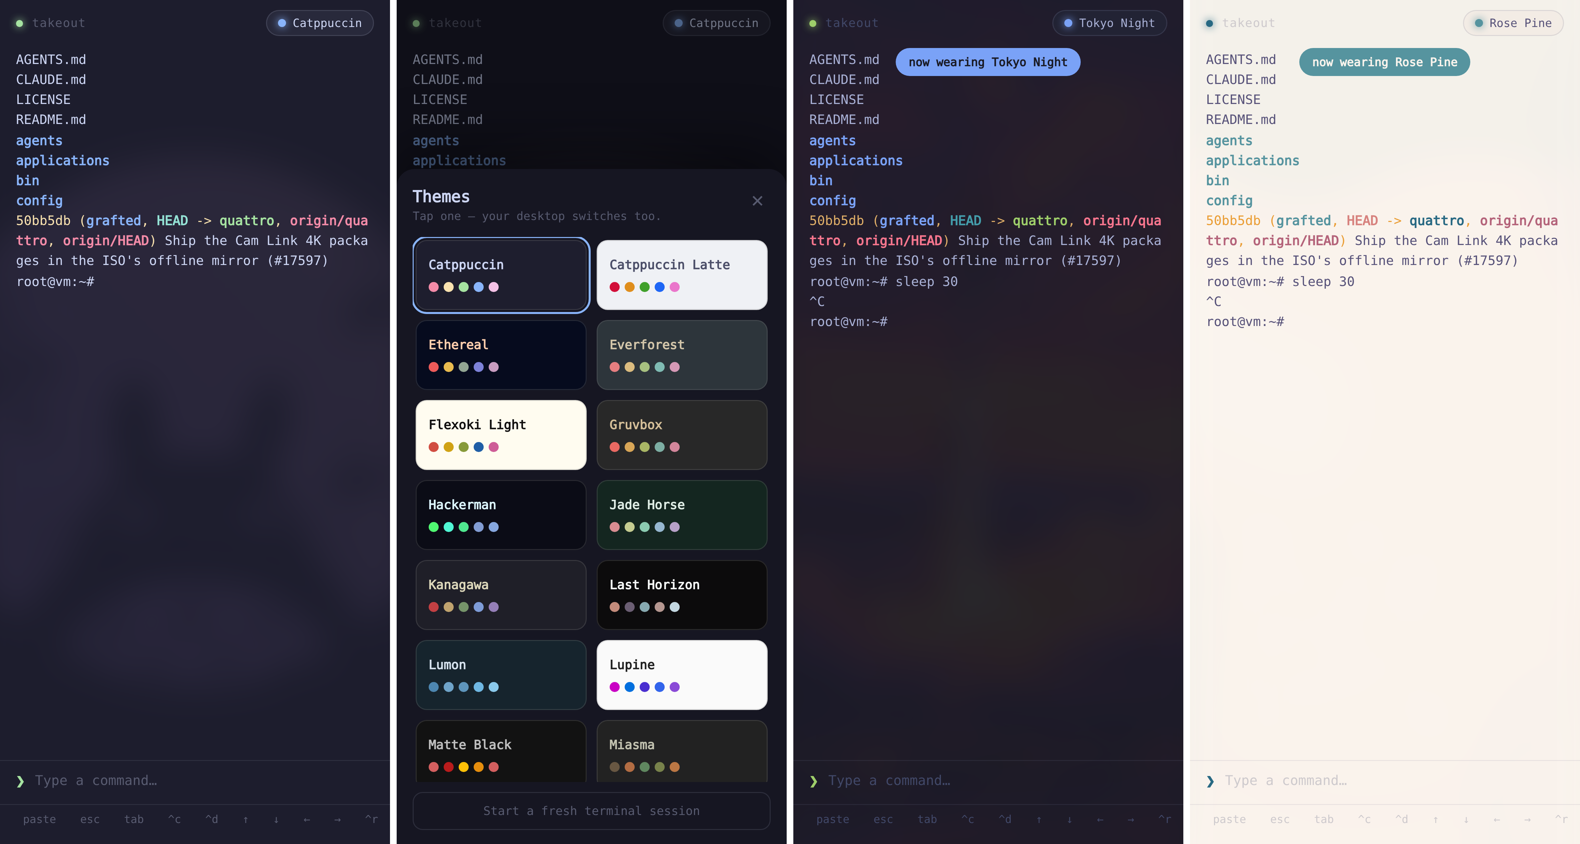
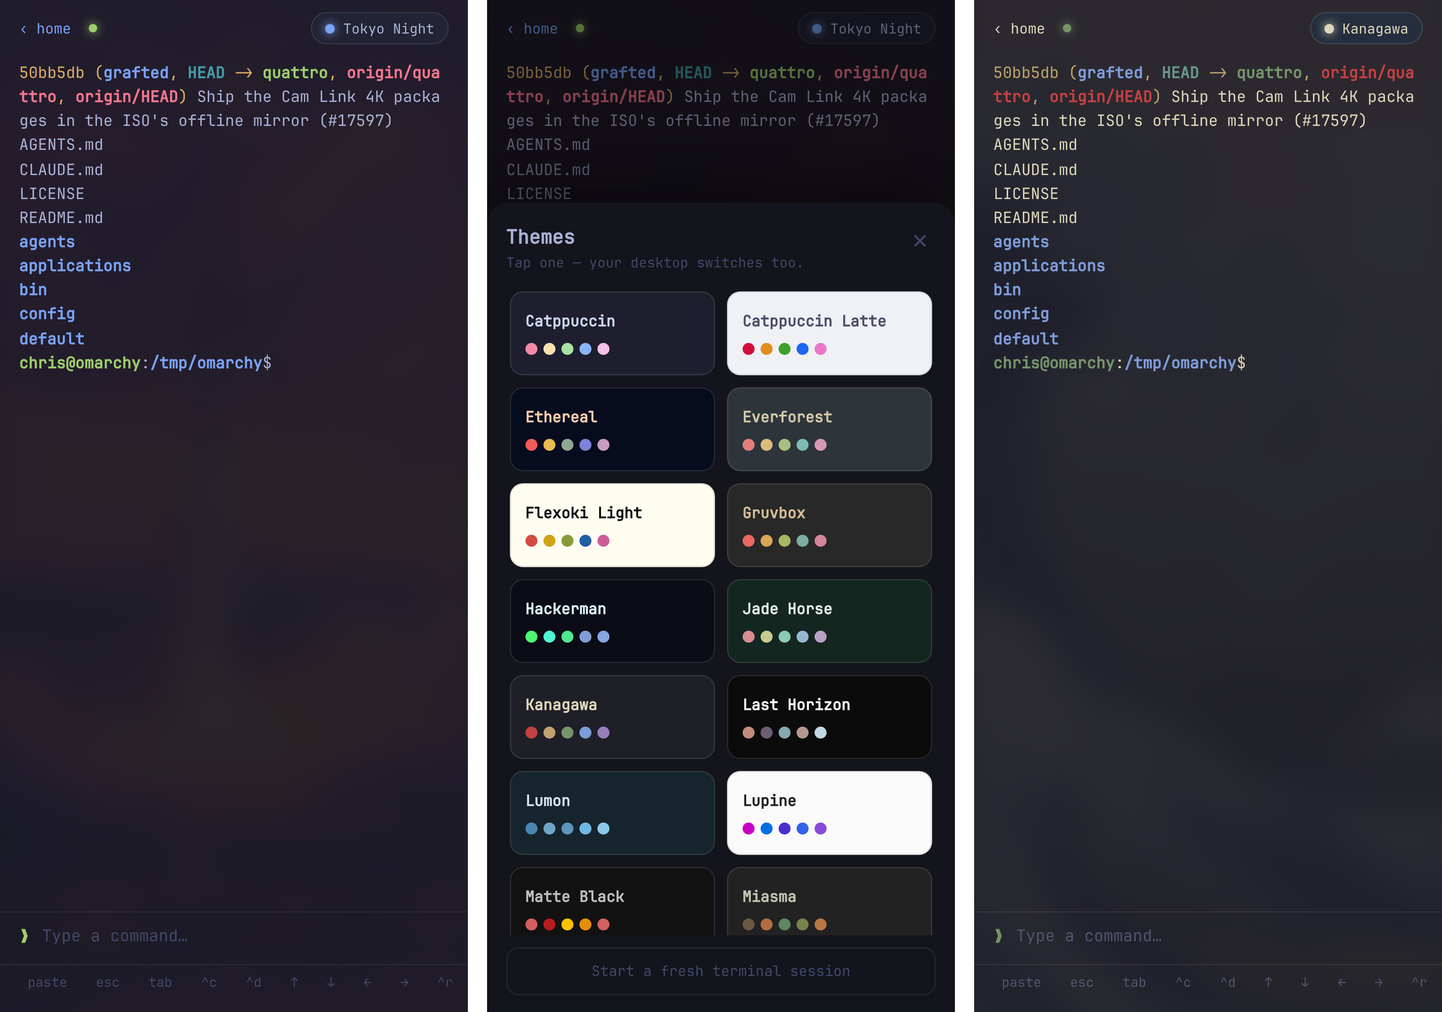
Update README screenshots for v0.4.0
Fresh captures of the current home screen (Tokyo Night, Catppuccin Latte,
Hackerman), the process list, the terminal, and the theme picker.

Claude-Session: https://claude.ai/code/session_011b9fuApy1Ds696Qxw3dYyJ

diff --git a/README.md b/README.md
@@ -6,7 +6,7 @@ Takeout puts a real terminal from your Omarchy machine on your phone, and it wea
 
 No cloud. No account. No app store. It's an Omarchy plugin that runs on your machine, and your phone reaches it over your home Wi-Fi. Add a private VPN later to reach it from anywhere.
 
-![Takeout's home screen in Tokyo Night, Tokyo Night scrolled, Catppuccin Latte, and Hackerman](docs/home.png)
+![Takeout's home screen in Tokyo Night, Catppuccin Latte and Hackerman, and the process list](docs/home.png)
 
 ## Install
 
@@ -38,7 +38,7 @@ takeout pair
 - **Never loses your place.** The session lives in tmux. Lock your phone, lose signal, come back: it's all still there. Sit down at your desk and run `takeout attach` to pick up the same session.
 - **Sign-in links become taps.** When Claude Code, Codex, or `gh` print a login URL, Takeout offers to open it on your phone.
 
-![The terminal in Catppuccin, the theme picker, Tokyo Night, and Rose Pine](docs/screenshot.png)
+![The terminal in Tokyo Night, the theme picker, and the terminal in Kanagawa](docs/screenshot.png)
 
 ## Commands
 
